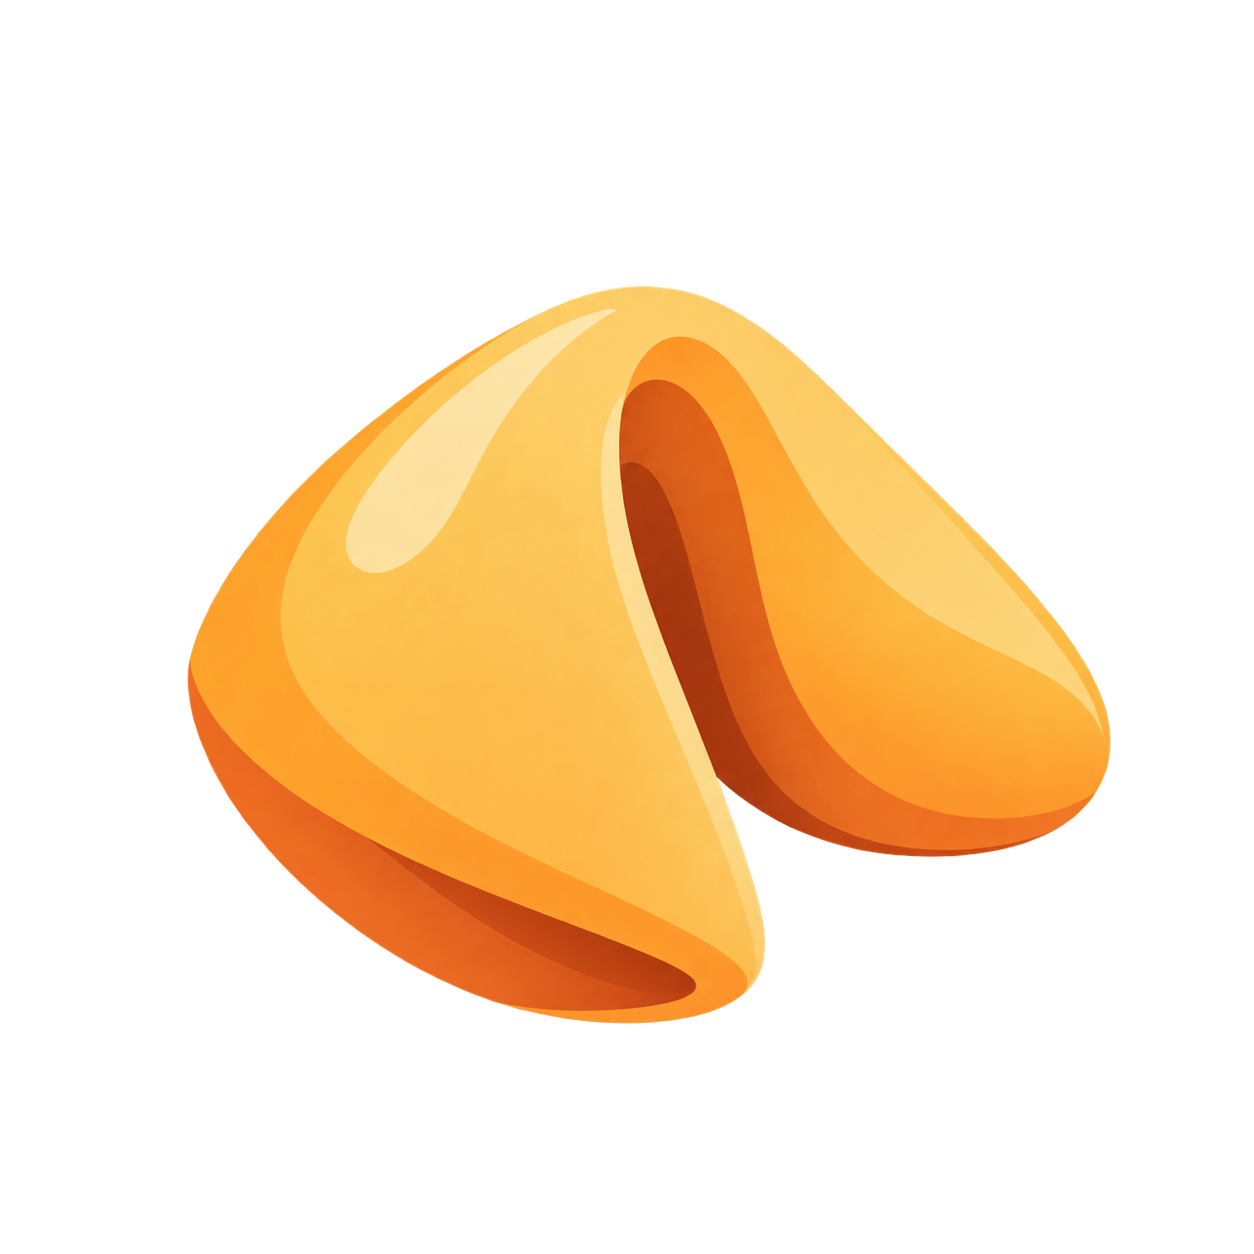
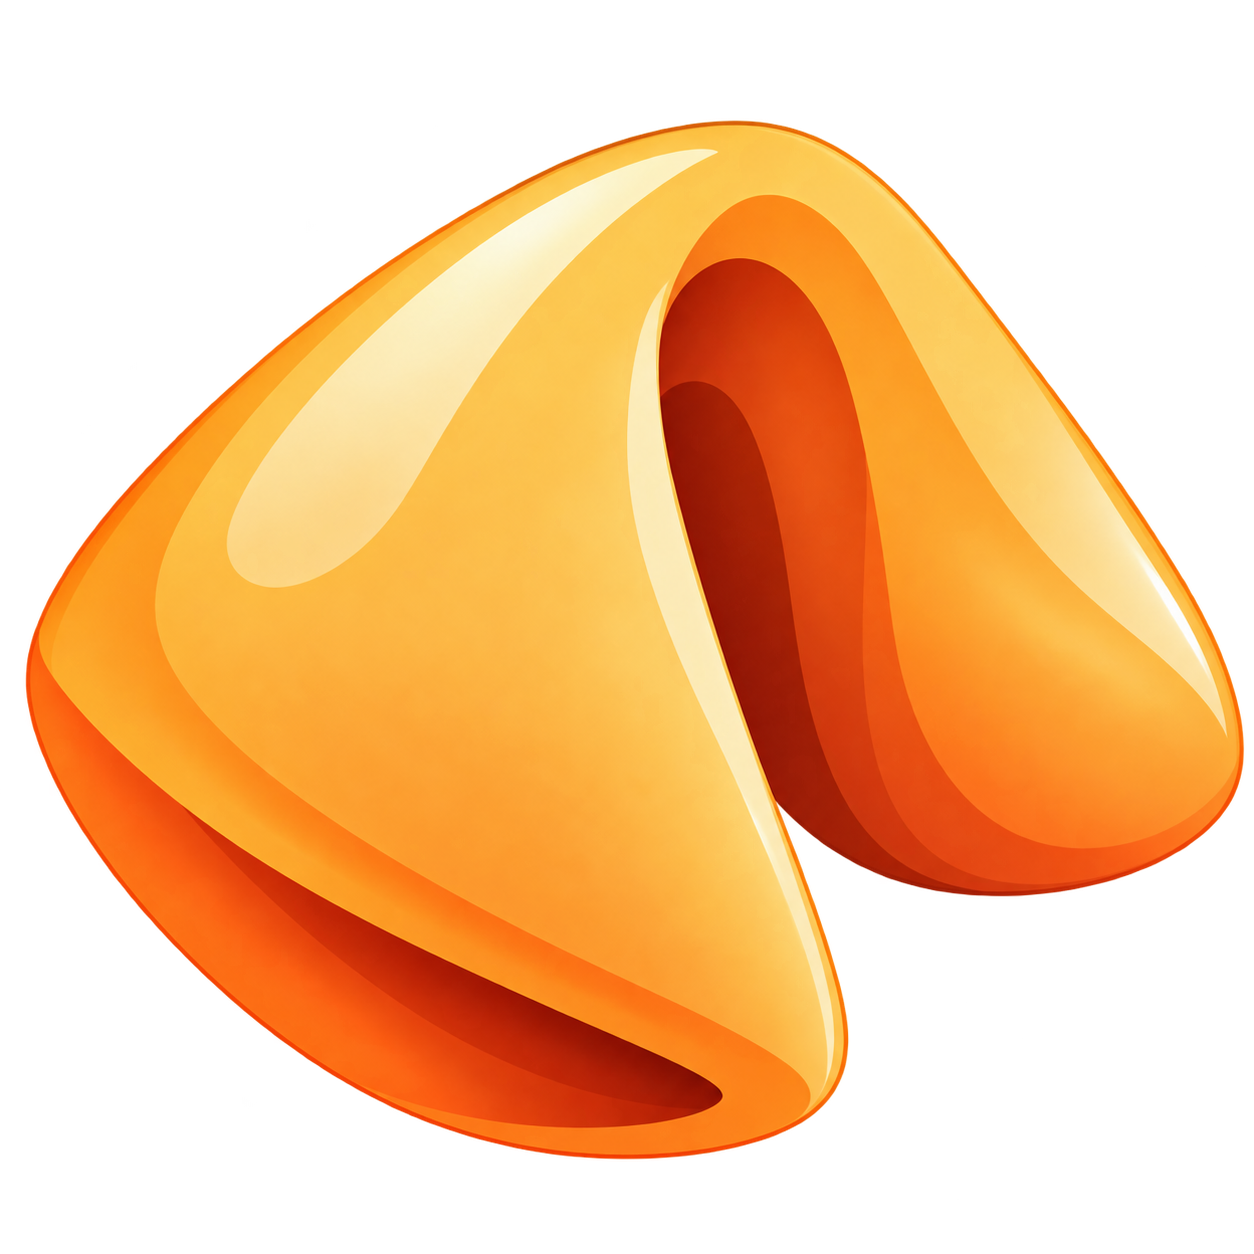
widgets : remplace l'icone fortune cookie dans la tuile et les parametres

diff --git a/public/js/editor.js b/public/js/editor.js
@@ -577,7 +577,7 @@ export function renderWebLinksEditor(){
 // Chaque type s'active par une case a cocher, puis porte ses propres options.
 // Ajouter un widget = une entree dans ce tableau.
 const SPECIAL_TILES=[
-  {type:"fortune", icon:"fa-solid fa-cookie-bite", labelKey:"specialTileFortune"}
+  {type:"fortune", image:"images/fortunecookie.png", labelKey:"specialTileFortune"}
 ];
 
 // Categorie d'affichage d'une tuile speciale : celle demandee si elle existe
@@ -616,8 +616,10 @@ export function renderWidgetsEditor(){
       renderWidgetsEditor();
     });
 
-    const icon=document.createElement("i");
-    icon.className=def.icon;
+    const icon=document.createElement("img");
+    icon.className="special-tile-icon";
+    icon.src=def.image;
+    icon.alt="";
 
     const text=document.createElement("span");
     text.textContent=t(def.labelKey);

diff --git a/public/css/editor.css b/public/css/editor.css
@@ -438,8 +438,10 @@ body.modal-open{
   cursor:pointer;
 }
 
-.widget-toggle i{
-  color:var(--accent);
+.special-tile-icon{
+  width:24px;
+  height:24px;
+  object-fit:contain;
 }
 
 .special-tile-category{
